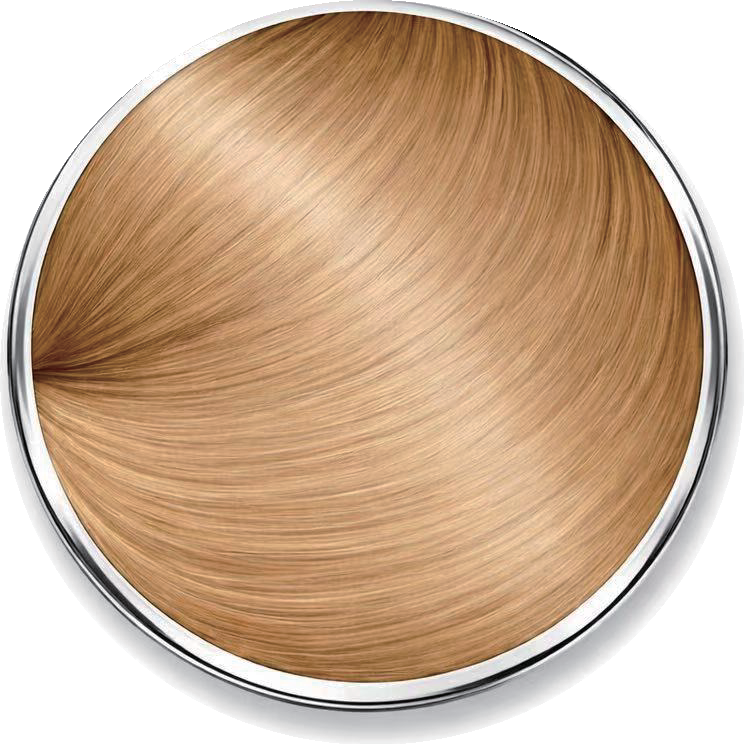
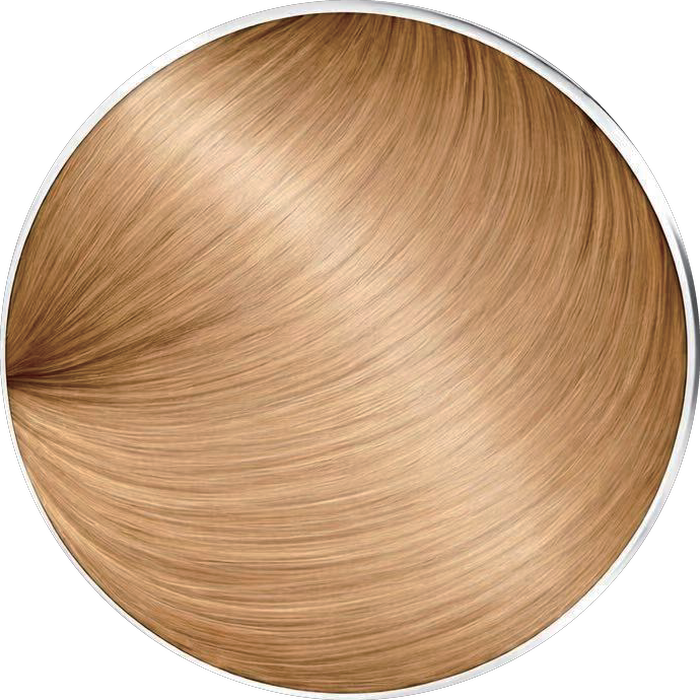
fix: remove outer white line/crescent from circular swatches

diff --git a/src/components/home/new-dispatches.tsx b/src/components/home/new-dispatches.tsx
@@ -204,17 +204,17 @@ export function NewDispatches({
                   </span>
                 </div>
 
-                {/* Pure Circular Hair Shade Swatch - Clean Transparent PNG */}
+                {/* Pure Circular Hair Shade Swatch - Clean Transparent Circle */}
                 <Link
                   href={`/product?shade=${item.id.replace("shade-", "")}`}
-                  className="relative block w-36 h-36 sm:w-44 sm:h-44 lg:w-48 lg:h-48 my-2 transition-transform duration-500 ease-out group-hover:scale-105"
+                  className="relative block w-36 h-36 sm:w-44 sm:h-44 lg:w-48 lg:h-48 my-2 rounded-full overflow-hidden shadow-[0_14px_30px_rgba(0,0,0,0.16)] transition-all duration-500 ease-out group-hover:scale-105 group-hover:shadow-[0_20px_36px_rgba(0,0,0,0.22)]"
                 >
                   <Image
                     src={circleSrc}
                     alt={item.name}
                     fill
                     sizes="(max-width: 640px) 150px, (max-width: 1024px) 180px, 200px"
-                    className="object-contain drop-shadow-[0_16px_28px_rgba(0,0,0,0.18)]"
+                    className="object-cover scale-[1.02]"
                     priority={idx < 4}
                   />
                 </Link>
